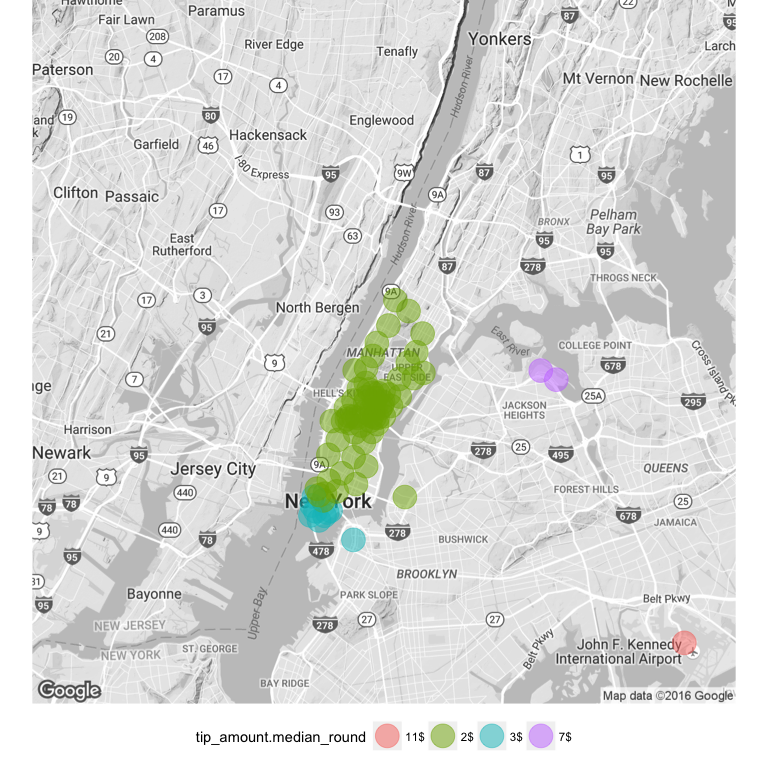
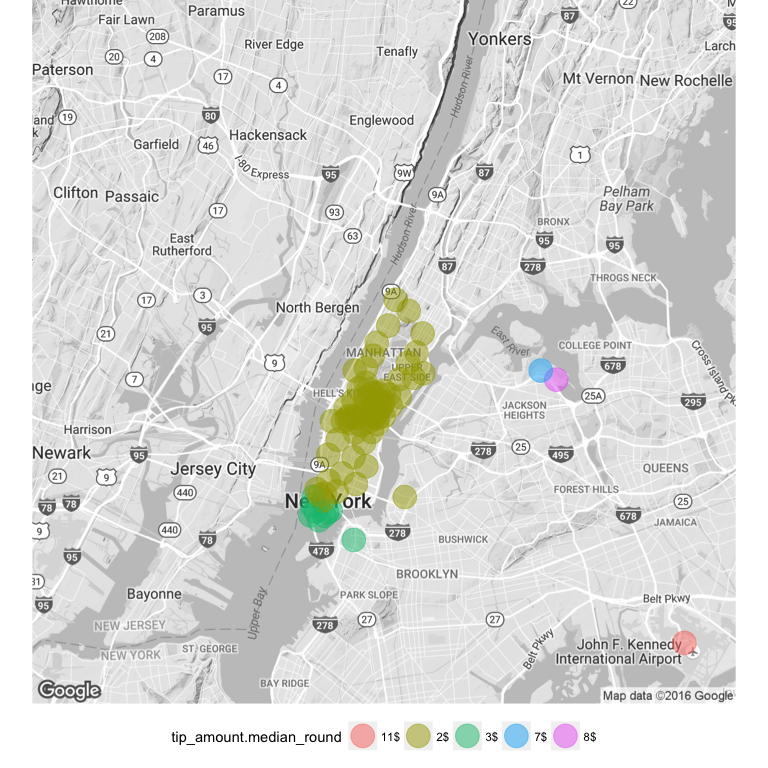
Fixed linear regression description

diff --git a/README.md b/README.md
@@ -14,7 +14,7 @@ source("data_preparation.r")
 1. Download dataset
 -------------------
 
-The dataset (csv) can be downloaded from [BigQuery](https://bigquery.cloud.google.com/table/nyc-tlc:yellow.trips_2015_07). You first need to export it to your Google Storage bucket (several CSV files are generated of 255MB), from where the files can be downloaded on a local machine. For the simplicity of obtaining the table we analyse the data for July, 2015 (not June as mentioned in the initial task).
+The dataset (csv) can be downloaded from [BigQuery](https://bigquery.cloud.google.com/table/nyc-tlc:yellow.trips_2015_07). You first need to export it to your Google Storage bucket (several CSV files are generated of 255MB), from where the files can be downloaded on a local machine. For the simplicity of obtaining the table we analyse the data for July, 2015.
 
 ``` r
 trips = read.csv("yellow2015_07000000000000.csv")
@@ -73,26 +73,26 @@ str(trips_short)
 ```
 
     ## 'data.frame':    250000 obs. of  20 variables:
-    ##  $ vendor_id         : Factor w/ 2 levels "1","2": 2 2 2 1 2 2 2 1 1 2 ...
-    ##  $ pickup_datetime   : POSIXlt, format: "2015-07-02 16:50:14" "2015-07-07 14:16:10" ...
-    ##  $ dropoff_datetime  : POSIXlt, format: "2015-07-02 16:51:55" "2015-07-07 14:44:05" ...
-    ##  $ passenger_count   : int  1 5 1 1 6 1 1 1 1 2 ...
-    ##  $ trip_distance     : num  0.57 14.4 1.84 1.7 10.33 ...
+    ##  $ vendor_id         : Factor w/ 2 levels "1","2": 2 2 1 2 1 2 2 1 2 1 ...
+    ##  $ pickup_datetime   : POSIXlt, format: "2015-07-22 07:27:40" "2015-07-11 12:28:32" ...
+    ##  $ dropoff_datetime  : POSIXlt, format: "2015-07-22 07:41:14" "2015-07-11 12:46:30" ...
+    ##  $ passenger_count   : int  1 1 1 5 1 2 1 1 1 1 ...
+    ##  $ trip_distance     : num  3.08 5.7 6.9 1.51 2.1 1.92 3.11 7.2 0.59 1.9 ...
     ##  $ pickup_longitude  : num  -74 -74 -74 -74 -74 ...
-    ##  $ pickup_latitude   : num  40.8 40.7 40.8 40.7 40.7 ...
+    ##  $ pickup_latitude   : num  40.7 40.8 40.8 40.7 40.7 ...
     ##  $ rate_code         : Factor w/ 7 levels "1","2","3","4",..: 1 1 1 1 1 1 1 1 1 1 ...
     ##  $ store_and_fwd_flag: Factor w/ 2 levels "N","Y": 1 1 1 1 1 1 1 1 1 1 ...
-    ##  $ dropoff_longitude : num  -74 -73.9 -74 -74 -73.9 ...
-    ##  $ dropoff_latitude  : num  40.8 40.8 40.8 40.7 40.8 ...
+    ##  $ dropoff_longitude : num  -74 -74 -74 -74 -74 ...
+    ##  $ dropoff_latitude  : num  40.8 40.7 40.7 40.7 40.7 ...
     ##  $ payment_type      : Factor w/ 4 levels "1","2","3","4": 1 1 1 1 1 1 1 1 1 1 ...
-    ##  $ fare_amount       : num  3.5 39.5 9 9 34 11.5 17 13 15.5 7 ...
-    ##  $ extra             : num  1 0 0 0 0 0 1 0.5 0 0 ...
+    ##  $ fare_amount       : num  12 19 25 8 10 9 13.5 25.5 4.5 9 ...
+    ##  $ extra             : num  0 0 0 0.5 1 0 0 0 0 0 ...
     ##  $ mta_tax           : num  0.5 0.5 0.5 0.5 0.5 0.5 0.5 0.5 0.5 0.5 ...
-    ##  $ tip_amount        : num  1 13.75 1.96 2.45 10.08 ...
-    ##  $ tolls_amount      : num  0 5.54 0 0 5.54 0 0 0 0 0 ...
+    ##  $ tip_amount        : num  1.2 2 7.74 1 2 1 3 2 1.06 2.9 ...
+    ##  $ tolls_amount      : num  0 0 0 0 0 0 0 0 0 0 ...
     ##  $ imp_surcharge     : num  0.3 0.3 0.3 0.3 0.3 0.3 0.3 0.3 0.3 0.3 ...
-    ##  $ total_amount      : num  6.3 59.6 11.8 12.2 50.4 ...
-    ##  $ tip_percentage    : num  18.9 30 20 25 25 ...
+    ##  $ total_amount      : num  14 21.8 33.5 10.3 13.8 ...
+    ##  $ tip_percentage    : num  9.37 10.1 30 10.75 16.95 ...
 
 5. Explore data
 ---------------
@@ -102,14 +102,14 @@ Let's see how our trips are spread geographically:
     ## Map from URL : http://maps.googleapis.com/maps/api/staticmap?center=Manhattan+New+York&zoom=11&size=640x640&scale=2&maptype=terrain&language=en-EN&sensor=false
     ## Information from URL : http://maps.googleapis.com/maps/api/geocode/json?address=Manhattan%20New%20York&sensor=false
 
-    ## Warning: Removed 32 rows containing missing values (geom_point).
+    ## Warning: Removed 30 rows containing missing values (geom_point).
 
 ![](NYCtrips_files/figure-markdown_github/unnamed-chunk-6-1.png)
 
 Let's see how tip percentages look like:
 
-    ##     Min.  1st Qu.   Median     Mean  3rd Qu.     Max. 
-    ##     0.01    17.05    20.00    19.89    20.00 60000.00
+    ##      Min.   1st Qu.    Median      Mean   3rd Qu.      Max. 
+    ##     0.017    16.950    20.000    19.640    20.000 29330.000
 
 The maximum value seems to be extreme. Let's see how extreme are the top percentiles:
 
@@ -118,7 +118,7 @@ quantile(trips_short$tip_percentage,c(0.95,0.99,0.999))
 ```
 
     ##       95%       99%     99.9% 
-    ##  29.64602  34.09091 100.00000
+    ##  29.64602  33.89831 100.00036
 
 To make our data more consistent we remove all records with tips greater than 100%:
 
@@ -154,25 +154,27 @@ Now let's see if there are any variables affecting the tip\_percentage people pa
     ## 
     ## Residuals:
     ##     Min      1Q  Median      3Q     Max 
-    ## -19.330  -2.127   0.786   0.891  80.870 
+    ## -20.490  -2.228   0.695   1.178  82.103 
     ## 
     ## Coefficients:
     ##                        Estimate Std. Error t value Pr(>|t|)    
-    ## (Intercept)          -1.222e+02  2.861e+01  -4.272 1.94e-05 ***
-    ## trip_distance        -1.193e-06  7.527e-07  -1.584 0.113099    
-    ## pickup_datetime$hour  3.111e-03  1.821e-03   1.709 0.087464 .  
-    ## pickup_datetime$yday  7.198e-04  1.372e-03   0.525 0.599931    
-    ## pickup_longitude     -9.596e-01  3.247e-01  -2.956 0.003120 ** 
-    ## pickup_latitude       1.721e+00  4.512e-01   3.815 0.000136 ***
-    ## passenger_count       4.216e-02  9.024e-03   4.672 2.98e-06 ***
+    ## (Intercept)          443.937612  34.687504  12.798  < 2e-16 ***
+    ## trip_distance         -0.109540   0.003753 -29.185  < 2e-16 ***
+    ## pickup_datetime$hour  -0.001396   0.001826  -0.764  0.44465    
+    ## pickup_datetime$yday   0.002651   0.001374   1.930  0.05365 .  
+    ## pickup_longitude       4.933525   0.380439  12.968  < 2e-16 ***
+    ## pickup_latitude       -1.473956   0.469020  -3.143  0.00167 ** 
+    ## passenger_count        0.047608   0.009046   5.263 1.42e-07 ***
     ## ---
     ## Signif. codes:  0 '***' 0.001 '**' 0.01 '*' 0.05 '.' 0.1 ' ' 1
     ## 
-    ## Residual standard error: 6.026 on 249745 degrees of freedom
-    ## Multiple R-squared:  0.0002135,  Adjusted R-squared:  0.0001895 
-    ## F-statistic: 8.889 on 6 and 249745 DF,  p-value: 1.008e-09
+    ## Residual standard error: 6.038 on 249743 degrees of freedom
+    ## Multiple R-squared:  0.003624,   Adjusted R-squared:  0.0036 
+    ## F-statistic: 151.4 on 6 and 249743 DF,  p-value: < 2.2e-16
 
-Because we use sampled data every time we have different variables which are statistically significant, such as *distance (in miles)*, *pickup longitude*, *latitude* and the *number of passengers*. They affect the percentage of tips people leave and the slope shows how much does an extra mile (for distance) or an extra passenger (for number of passengers) affect tip percentage. We are primarily interested in how geographical location affect tip percentage, therefore further we split NYC into zones.
+R squared is very small so this linear regression does not represent well out dataset, even taking into account we have some statistically significant p-values for slopes of some variables.
+
+We are primarily interested in how geographical location affect tip percentage, therefore further we split NYC into zones.
 
 6. Group trips into NYC zones (ZIP codes)
 -----------------------------------------
@@ -190,19 +192,19 @@ zones <- group_data(trips_short_zip)
 str(zones)
 ```
 
-    ## 'data.frame':    208 obs. of  12 variables:
-    ##  $ zipcode                    : Factor w/ 208 levels "10001","10002",..: 1 2 3 4 5 6 7 8 9 10 ...
+    ## 'data.frame':    207 obs. of  12 variables:
+    ##  $ zipcode                    : Factor w/ 207 levels "10001","10002",..: 1 2 3 4 5 6 7 8 9 10 ...
     ##  $ lat                        : num  40.7 40.7 40.7 40.7 40.7 ...
     ##  $ lon                        : num  -74 -74 -74 -74 -74 ...
-    ##  $ amount                     : num  1523 5462 13212 1167 570 ...
-    ##  $ tip_percentage.mean        : num  19.5 18.6 19 18.6 19 ...
+    ##  $ amount                     : num  1449 5299 13373 1121 598 ...
+    ##  $ tip_percentage.mean        : num  19.4 18.7 19 18.3 19.3 ...
     ##  $ tip_percentage.median      : num  20 20 20 20 20 ...
-    ##  $ tip_amount.mean            : num  2.45 2.61 2.35 3.5 3.6 ...
-    ##  $ tip_amount.median          : num  2 2.16 1.96 3 3 2.16 2 2 1.95 1.96 ...
-    ##  $ tip_amount.mean_round      : Factor w/ 21 levels "0$","1$","10$",..: 9 12 9 12 15 12 9 9 9 9 ...
-    ##  $ tip_amount.median_round    : Factor w/ 19 levels "0$","1$","10$",..: 7 7 7 10 10 7 7 7 7 7 ...
-    ##  $ tip_percentage.median_round: Factor w/ 21 levels "0%","10%","11%",..: 12 12 12 12 12 12 12 12 12 12 ...
-    ##  $ tip_percentage.mean_round  : Factor w/ 23 levels "0%","10%","11%",..: 11 10 10 10 10 10 10 10 10 10 ...
+    ##  $ tip_amount.mean            : num  2.39 2.65 2.35 3.4 3.63 ...
+    ##  $ tip_amount.median          : num  1.96 2.16 1.96 2.95 3 2.15 2 2 1.86 1.95 ...
+    ##  $ tip_amount.mean_round      : Factor w/ 19 levels "0$","1$","10$",..: 9 12 9 12 13 12 9 9 9 9 ...
+    ##  $ tip_amount.median_round    : Factor w/ 19 levels "0$","1$","10$",..: 9 9 9 12 12 9 9 9 9 9 ...
+    ##  $ tip_percentage.median_round: Factor w/ 23 levels "10%","11%","12%",..: 11 11 11 11 11 11 11 11 11 11 ...
+    ##  $ tip_percentage.mean_round  : Factor w/ 25 levels "10%","11%","12%",..: 10 10 10 9 10 10 10 10 10 10 ...
 
 The lower the *amount* of records for a given zone we have the more extreme the aggregated values are in comparison to zones with more records. Because of that in our analysis we consider only zones with more than 500 records (500 is taken arbitrary as a big enough number of records).
 
@@ -268,7 +270,7 @@ welch_test <- t.test(TimesSquare_10036$tip_percentage,WorldTradeCenter_10250$tip
 welch_test$p.value
 ```
 
-    ## [1] 1.29465e-09
+    ## [1] 4.849112e-10
 
 The Welch test shows that people starting from Times Square really tend to pay more tips (p-value=0). Let's check how much more they tend to pay:
 
@@ -278,9 +280,9 @@ cohen_distance$estimate
 ```
 
     ## Treatment 
-    ## 0.2105738
+    ## 0.2102142
 
-**The effect size of people traveling from Times Square than from WorldTradeCenter is 0.21 (difference of means divided by standard deviation)**.
+Cohen's d is 0.21.
 
 Let's compare two airports (JFK and LaGuardia):
 
@@ -289,7 +291,7 @@ welch_test <- t.test(LaGuardia_11371$tip_percentage,JFK_11430$tip_percentage,alt
 welch_test$p.value
 ```
 
-    ## [1] 2.836445e-15
+    ## [1] 1.134836e-18
 
 **People taking taxis from LaGuardia airport seem to pay more than people from JFK (p-value=0)**.
 
@@ -299,9 +301,9 @@ cohen_distance$estimate
 ```
 
     ## Treatment 
-    ## 0.1631596
+    ## 0.1822718
 
-Cohen distance is 0.16 more.
+Cohen's d is 0.18.
 
 8. Conclusion
 -------------
